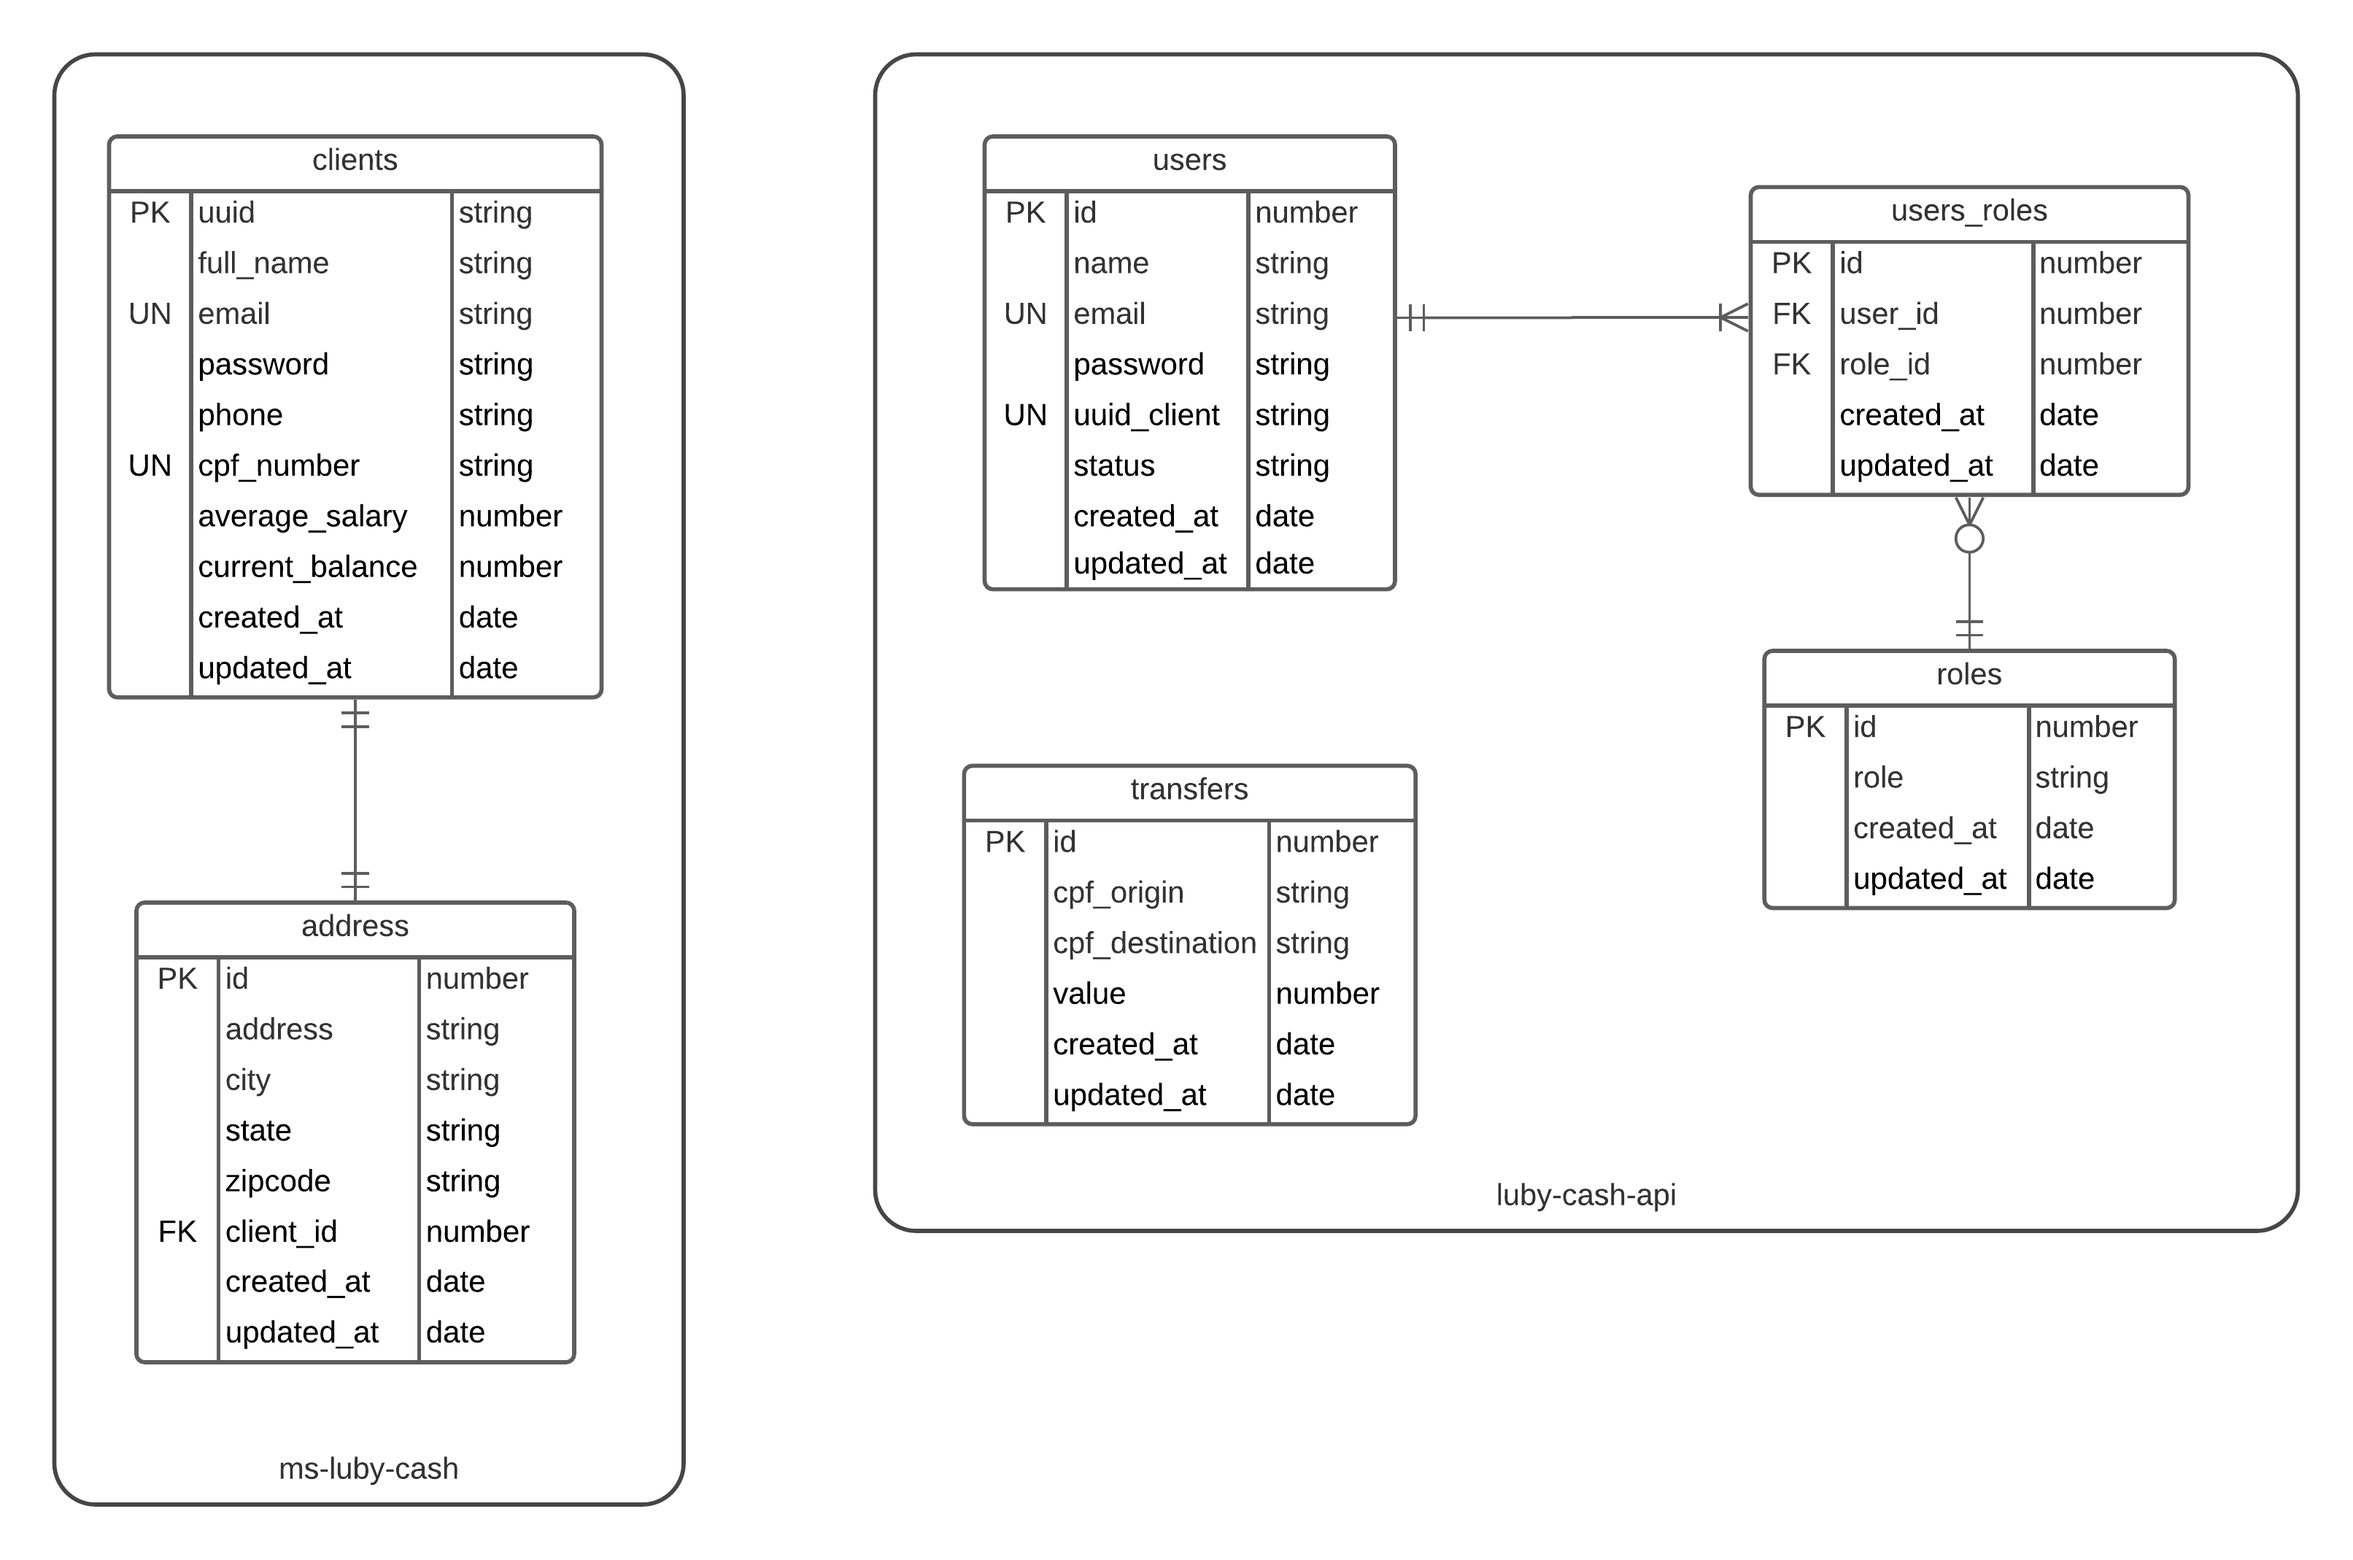
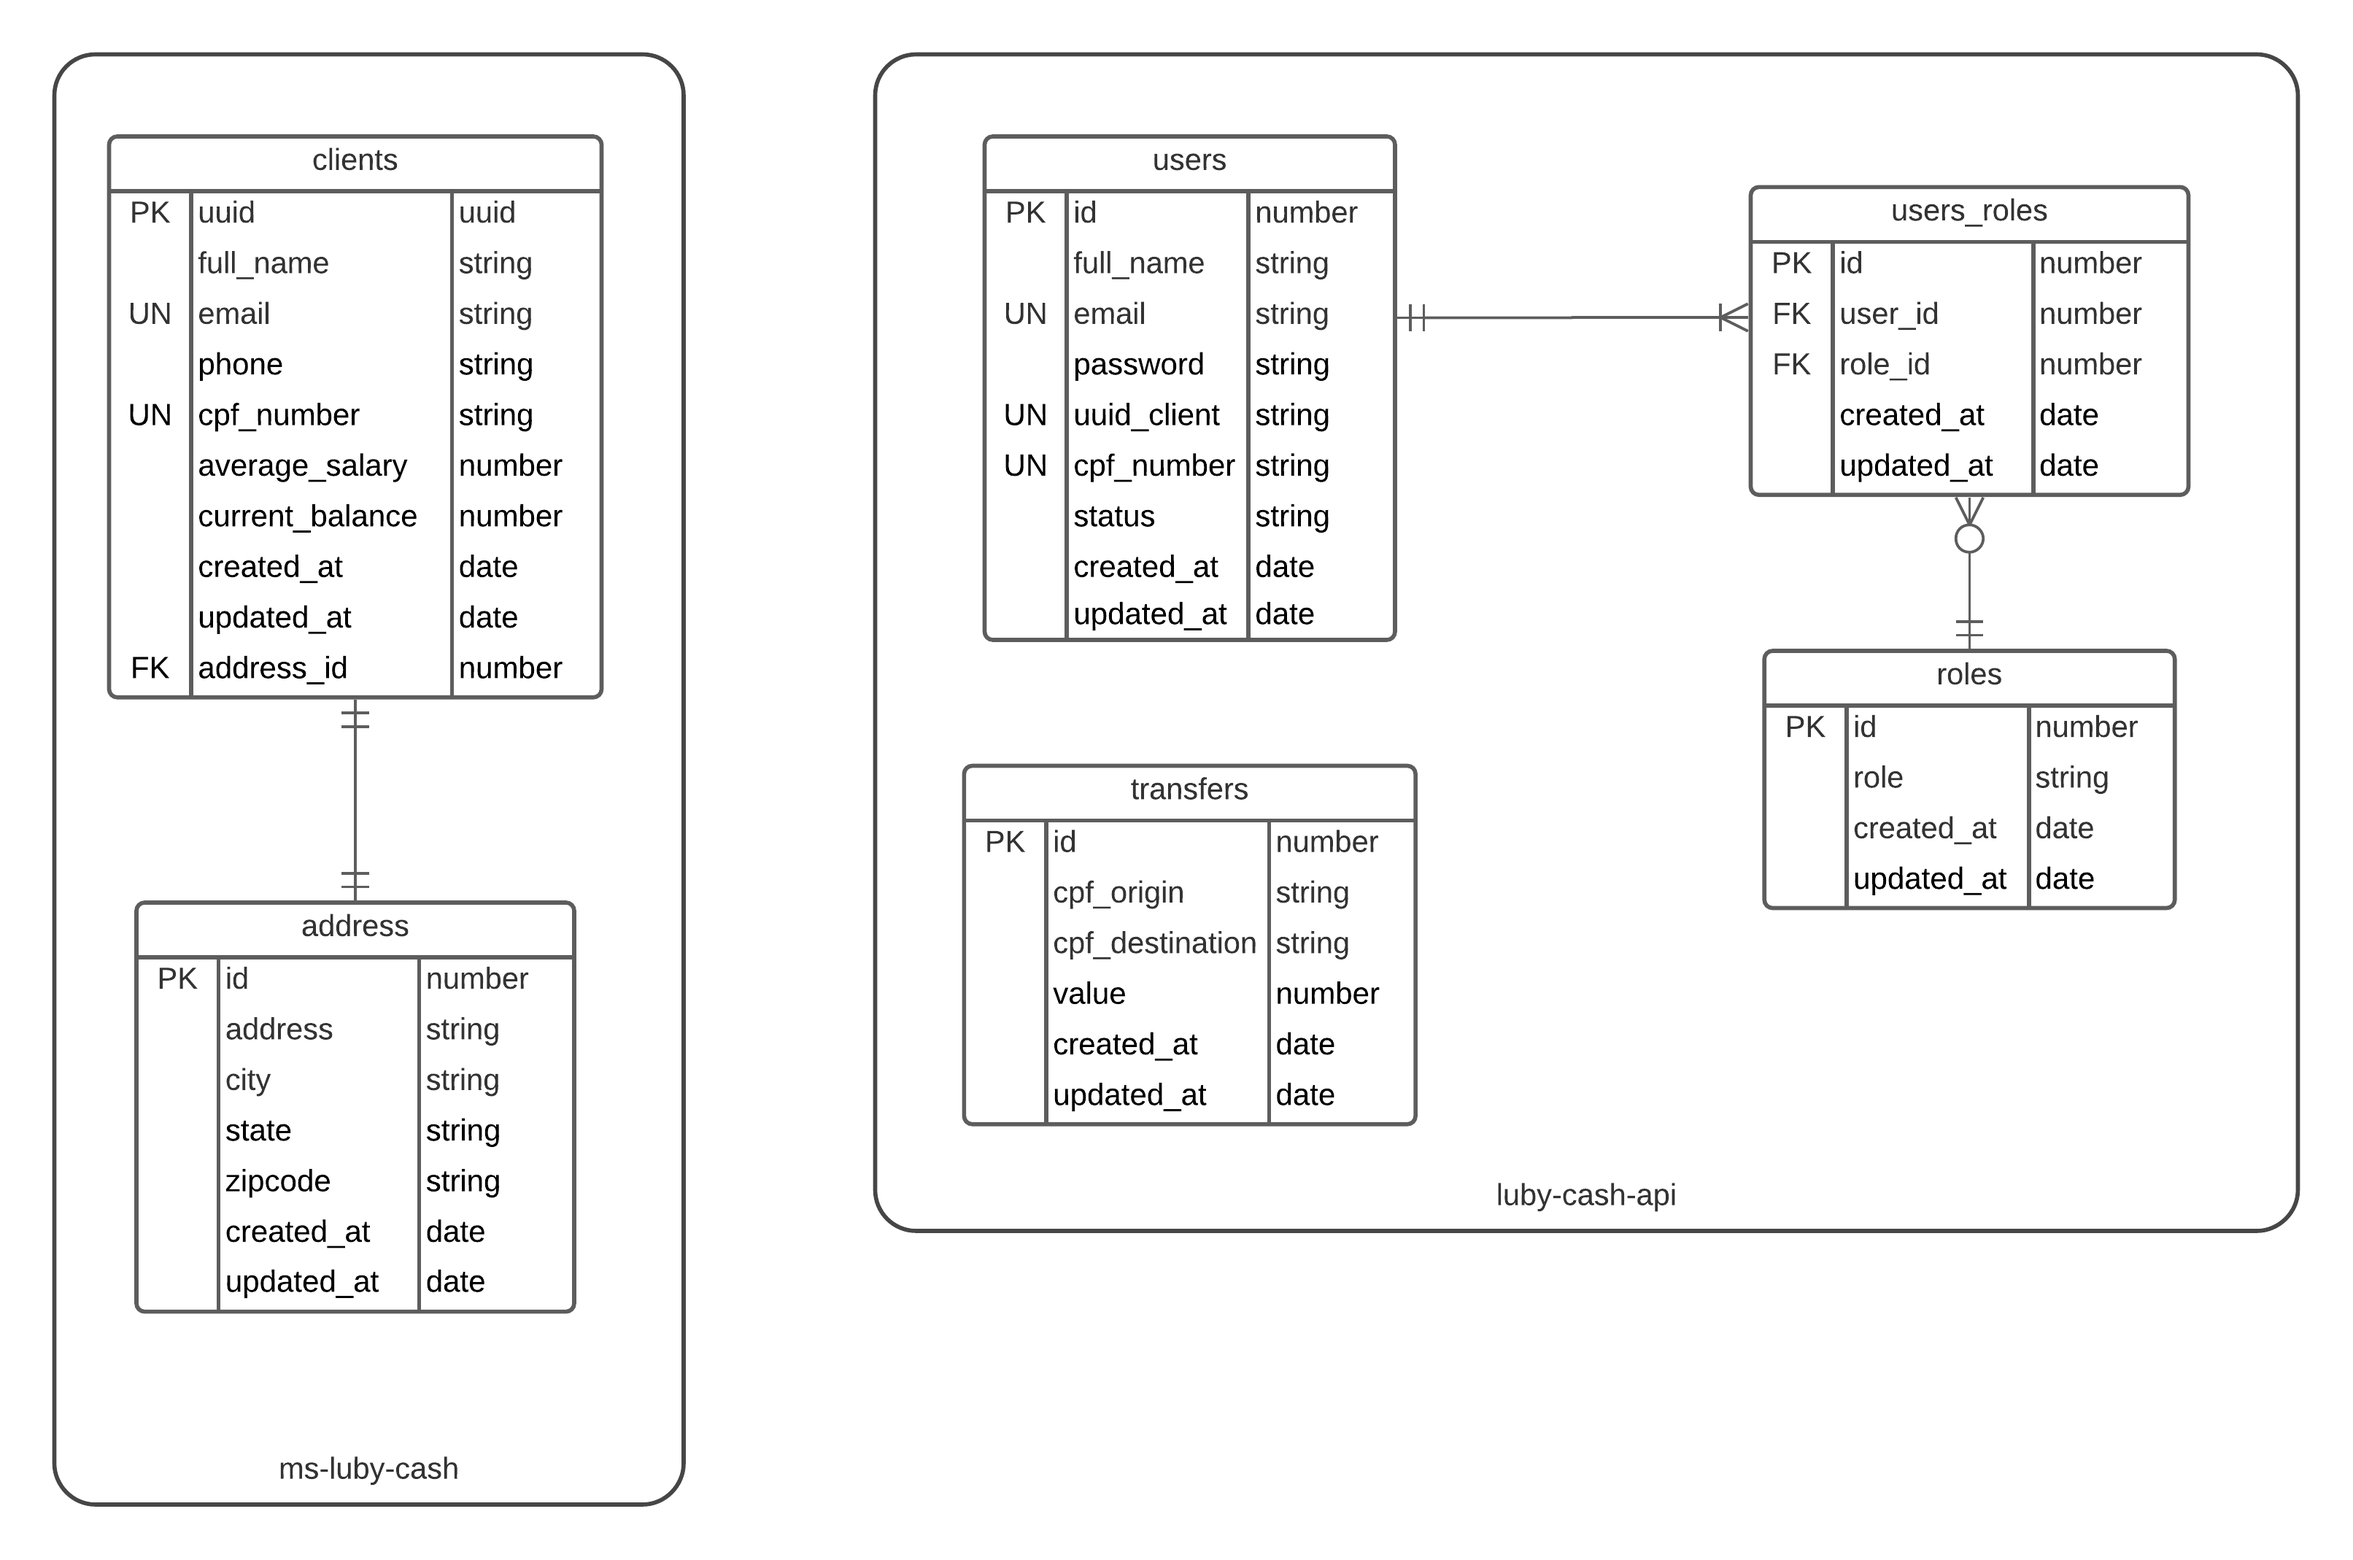
feat: settings and refactorings

diff --git a/database/seeders/User.ts b/database/seeders/User.ts
@@ -8,45 +8,45 @@ export default class UserSeeder extends BaseSeeder {
     const uniqueKey = 'email'
     await User.updateOrCreateMany(uniqueKey, [
       {
-        name: 'User Admin',
+        fullName: 'User Admin',
         email: 'admin@email.com',
         password: 'senha123',
-        cpf: '111.111.111-11',
+        cpfNumber: '111.111.111-11',
         createdAt: DateTime.local(2022, 1, 1, 0, 0, 0),
       },
       {
-        name: 'Ivan Simplício',
+        fullName: 'Ivan Simplício',
         email: 'ivan@email.com',
         password: 'senha123',
         uuidClient: '9e384fa1-25f6-4822-b0e2-c06e30af0bc2',
-        cpf: '222.222.222-22',
+        cpfNumber: '222.222.222-22',
         status: Status.APPROVED,
         createdAt: DateTime.local(2022, 2, 1, 0, 0, 0),
       },
       {
-        name: 'José Alves',
+        fullName: 'José Alves',
         email: 'jose@email.com',
         password: 'senha123',
         uuidClient: 'e1619208-8582-4c70-b58b-cde41dcf6c32',
-        cpf: '333.333.333-33',
+        cpfNumber: '333.333.333-33',
         status: Status.APPROVED,
         createdAt: DateTime.local(2022, 2, 15, 0, 0, 0),
       },
       {
-        name: 'Maria Silva',
+        fullName: 'Maria Silva',
         email: 'maria@email.com',
         password: 'senha123',
         uuidClient: 'a1f0e57b-3c75-4bdb-91b3-e3f4f0cd9cbb',
-        cpf: '444.444.444-44',
+        cpfNumber: '444.444.444-44',
         status: Status.APPROVED,
         createdAt: DateTime.local(2022, 2, 21, 0, 0, 0),
       },
       {
-        name: 'João Paulo',
+        fullName: 'João Paulo',
         email: 'joao@email.com',
         password: 'senha123',
         uuidClient: '19bae3dd-f2e0-4757-86d7-676f9c34d7c7',
-        cpf: '555.555.555-55',
+        cpfNumber: '555.555.555-55',
         status: Status.DISAPPROVED,
         createdAt: DateTime.local(2022, 2, 21, 0, 0, 0),
       },

diff --git a/app/Controllers/Http/AuthController.ts b/app/Controllers/Http/AuthController.ts
@@ -1,3 +1,4 @@
+import Status from 'App/Enums/Status'
 import User from 'App/Models/User'
 import { HttpContextContract } from '@ioc:Adonis/Core/HttpContext'
 import StandardError from 'App/Exceptions/Errors/StandardError'
@@ -10,6 +11,9 @@ export default class AuthController {
     const payload = await request.validate(LoginUser)
     try {
       const user = await User.findBy('email', payload.email)
+      if (user?.status === Status.DISAPPROVED || user?.status === Status.PENDING) {
+        throw new Error()
+      }
       const token = await auth.use('api').attempt(payload.email, payload.password, {
         expiresIn: '7days',
         name: user?.serialize().email,
@@ -22,7 +26,9 @@ export default class AuthController {
         return { token, user: result }
       }
     } catch {
-      return response.badRequest(new StandardError('BAD_REQUEST', 400, 'Invalid credentials'))
+      return response.badRequest(
+        new StandardError('BAD_REQUEST', 400, 'Invalid credentials or inactive registration')
+      )
     }
   }
 }

diff --git a/database/migrations/1644598813094_create_table_users.ts b/database/migrations/1644598813094_create_table_users.ts
@@ -6,11 +6,11 @@ export default class CreateTableUsers extends BaseSchema {
   public async up() {
     this.schema.createTable(this.tableName, (table) => {
       table.increments('id').primary()
-      table.string('name', 100).notNullable()
+      table.string('full_name', 100).notNullable()
       table.string('email', 100).unique().notNullable()
       table.string('password', 150).notNullable()
       table.string('uuid_client', 100).unique()
-      table.string('cpf', 14).unique()
+      table.string('cpf_number', 14).unique()
       table.enu('status', ['', 'pending', 'approved', 'disapproved']).notNullable()
       table.timestamp('created_at', { useTz: true })
       table.timestamp('updated_at', { useTz: true })

diff --git a/app/Controllers/Http/ClientsController.ts b/app/Controllers/Http/ClientsController.ts
@@ -18,20 +18,14 @@ export default class ClientsController {
     const payload = await request.validate(CreateClient)
     const { fullName, email, password, cpfNumber } = payload
     const client = await User.create({
-      name: fullName,
+      fullName,
       email,
       password,
-      cpf: cpfNumber,
+      cpfNumber,
       status: Status.PENDING,
     })
     await UserRoles.create({ userId: client.id, roleId: Roles.CLIENT })
     new ProducerService().produceTopicCustomerRegistration(payload)
     return response.created()
   }
-
-  public async show({}: HttpContextContract) {}
-
-  public async update({}: HttpContextContract) {}
-
-  public async destroy({}: HttpContextContract) {}
 }

diff --git a/app/Services/TransferService.ts b/app/Services/TransferService.ts
@@ -37,7 +37,7 @@ const validateTransaction = async (transfer: TransferInterface) => {
   if (transfer.cpfOrigin === transfer.cpfDestination) {
     throw new TransactionException('You cannot make a transfer to yourself.')
   }
-  const beneficiary = await User.findByOrFail('cpf', transfer.cpfDestination)
+  const beneficiary = await User.findByOrFail('cpfNumber', transfer.cpfDestination)
   if (!(beneficiary.status === Status.APPROVED)) {
     throw new TransactionException('It was not possible to transfer to this CPF.')
   }

diff --git a/app/Exceptions/Handler.ts b/app/Exceptions/Handler.ts
@@ -9,6 +9,11 @@ export default class ExceptionHandler extends HttpExceptionHandler {
   }
 
   public async handle(error: any, ctx: HttpContextContract): Promise<any> {
+    if (error.code === 'E_ROW_NOT_FOUND') {
+      return ctx.response
+        .status(404)
+        .send(new StandardError('NOT_FOUND', 404, 'non-existent or already used token'))
+    }
     if (error.code === 'E_AUTHORIZATION_FAILURE') {
       return ctx.response.status(403).send(new StandardError('FORBIDDEN', 403, 'not authorized'))
     }

diff --git a/app/Validators/TransferValidator.ts b/app/Validators/TransferValidator.ts
@@ -4,7 +4,7 @@ import { HttpContextContract } from '@ioc:Adonis/Core/HttpContext'
 export default class TransferValidator {
   constructor(protected ctx: HttpContextContract) {}
   public schema = schema.create({
-    cpf: schema.string({ trim: true }, [rules.exists({ table: 'users', column: 'cpf' })]),
+    cpf: schema.string({ trim: true }, [rules.exists({ table: 'users', column: 'cpf_number' })]),
     value: schema.number([rules.unsigned()]),
   })
 

diff --git a/app/Services/AdminService.ts b/app/Services/AdminService.ts
@@ -1,8 +1,9 @@
 const getOnlyAdminInfo = (data: any) => {
-  const { id, name, email, roles } = data
+  const { id, email, roles } = data
+  const fullName = data['full_name'] || data['fullName']
   const createdAt = data['created_at']
   const updatedAt = data['updated_at']
-  return { roles, id, name, email, createdAt, updatedAt }
+  return { roles, id, fullName, email, createdAt, updatedAt }
 }
 
 export { getOnlyAdminInfo }

diff --git a/app/Services/Kafka/ConsumerService.ts b/app/Services/Kafka/ConsumerService.ts
@@ -16,7 +16,7 @@ class ConsumerService {
     await this.consumer.connect()
     await this.consumer.subscribe({ topic, fromBeginning: false })
     await this.consumer.run({
-      eachMessage: async ({ topic, message }) => {
+      eachMessage: async ({ message }) => {
         if (message.value) {
           await completeClientRegistration(JSON.parse(message.value.toString()).content.user)
         }

diff --git a/app/Validators/UpdateAdminValidator.ts b/app/Validators/UpdateAdminValidator.ts
@@ -5,7 +5,7 @@ export default class UpdateAdminValidator {
   constructor(protected ctx: HttpContextContract) {}
 
   public schema = schema.create({
-    name: schema.string.optional({ trim: true }, [rules.maxLength(100)]),
+    fullName: schema.string.optional({ trim: true }, [rules.maxLength(100)]),
     email: schema.string.optional({ trim: true }, [
       rules.email(),
       rules.maxLength(100),

diff --git a/app/Models/User.ts b/app/Models/User.ts
@@ -12,7 +12,7 @@ export default class User extends BaseModel {
   public id: number
 
   @column()
-  public name: string
+  public fullName: string
 
   @column()
   public email: string
@@ -24,7 +24,7 @@ export default class User extends BaseModel {
   public uuidClient: string
 
   @column()
-  public cpf: string
+  public cpfNumber: string
 
   @column()
   public status: Status

diff --git a/app/Validators/CreateAdminValidator.ts b/app/Validators/CreateAdminValidator.ts
@@ -5,7 +5,7 @@ export default class CreateAdminValidator {
   constructor(protected ctx: HttpContextContract) {}
 
   public schema = schema.create({
-    name: schema.string({ trim: true }, [rules.maxLength(100)]),
+    fullName: schema.string({ trim: true }, [rules.maxLength(100)]),
     email: schema.string({ trim: true }, [
       rules.email(),
       rules.maxLength(100),
